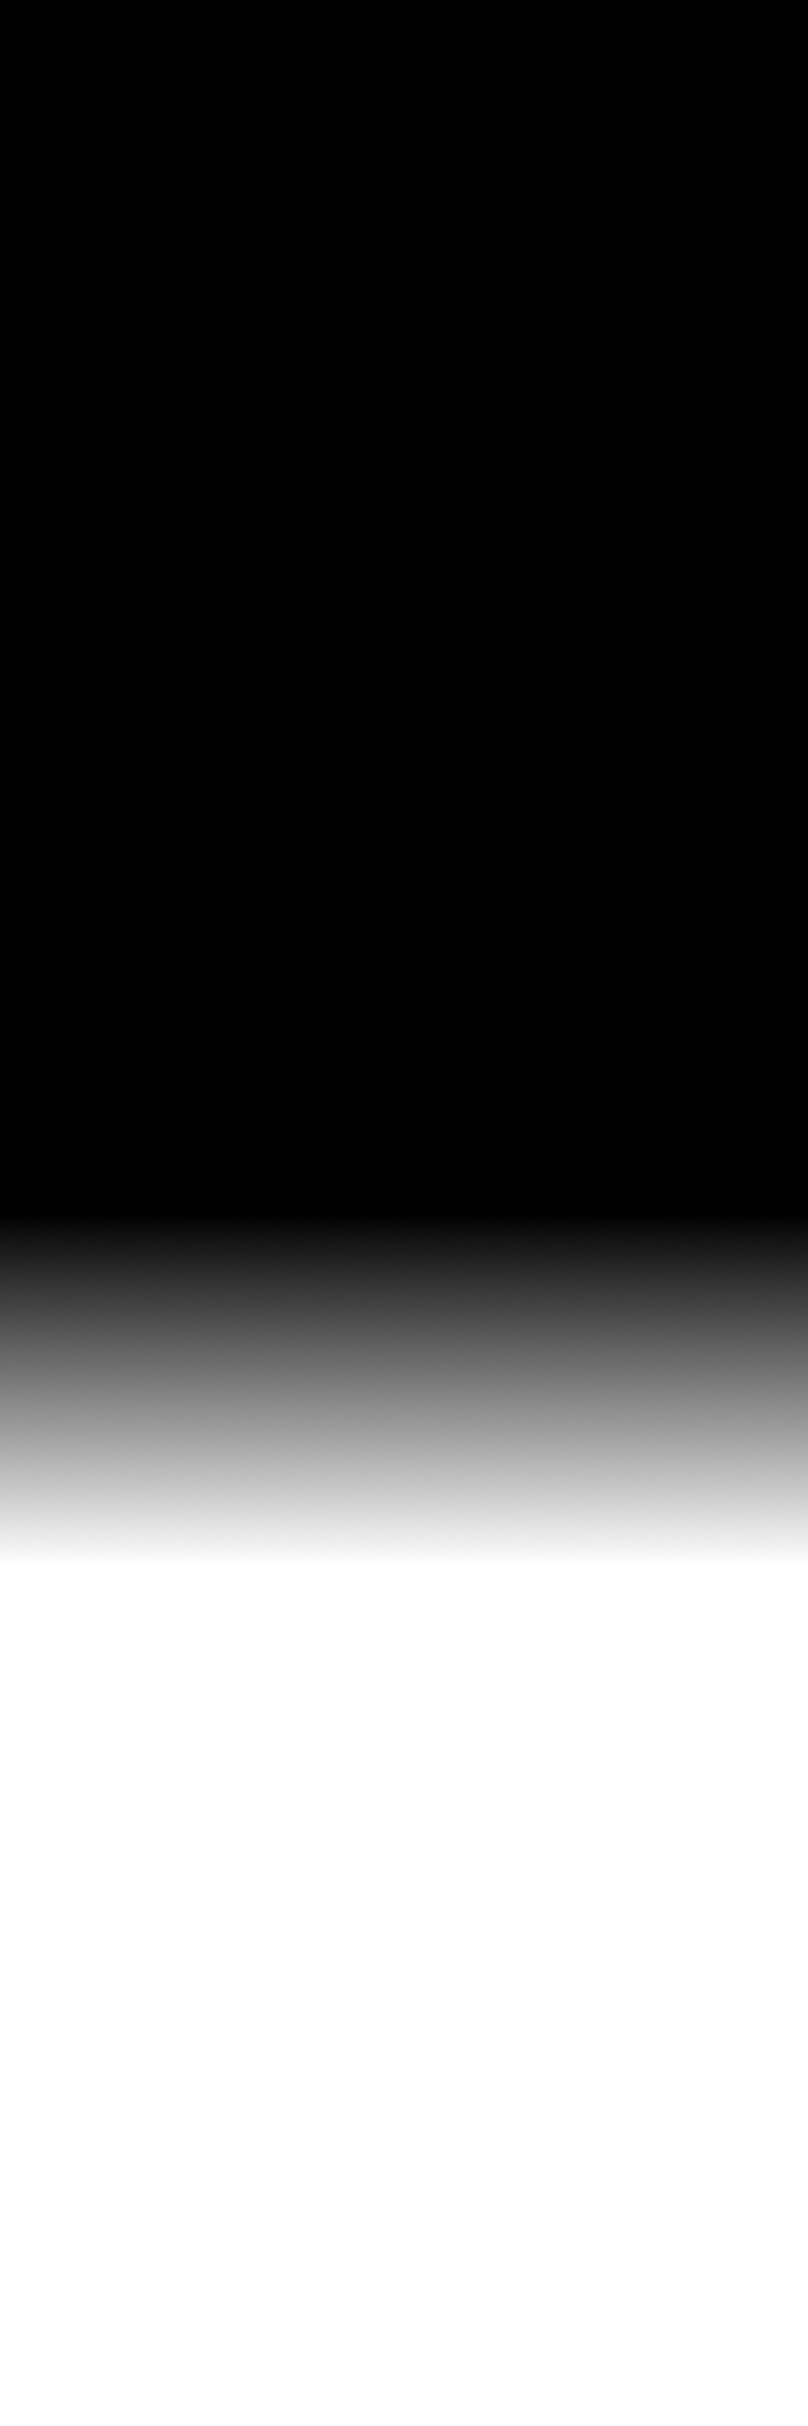
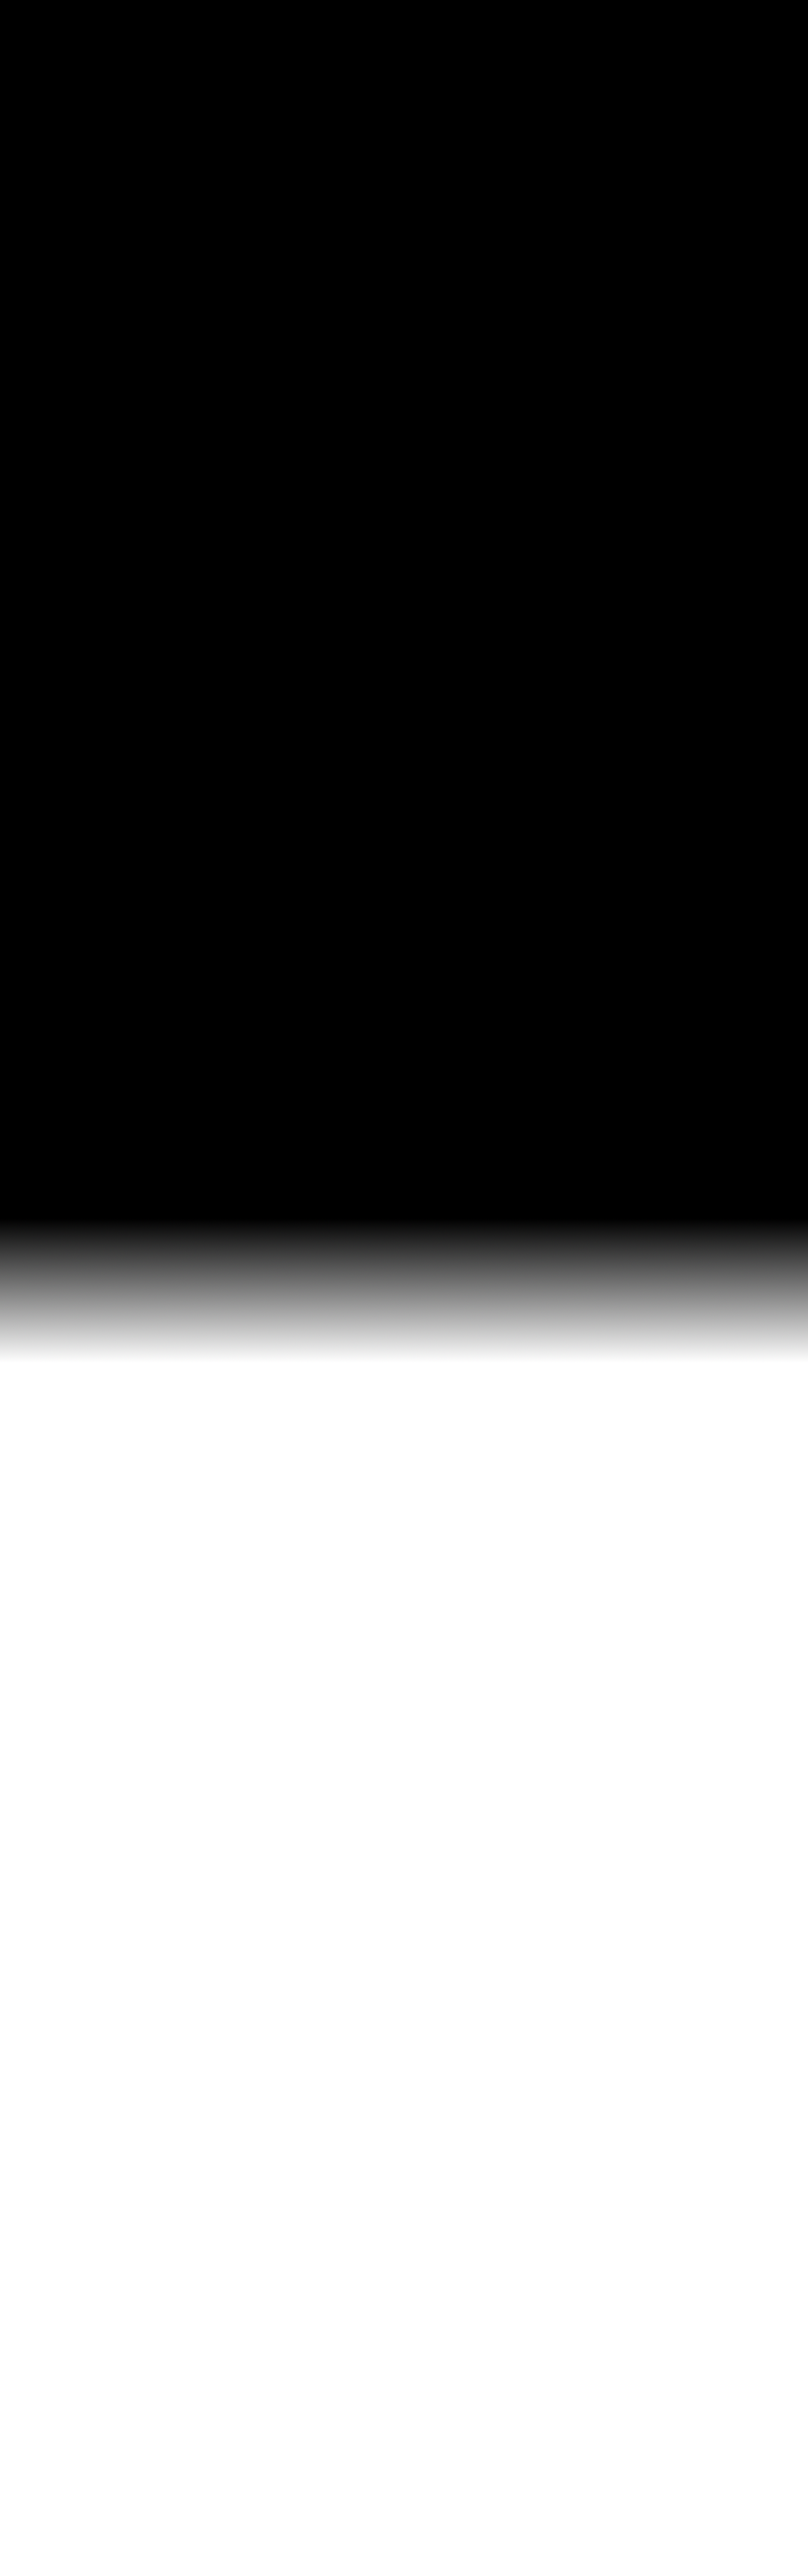
fix height of mask sprite and mask shift

Changed region(s): [[0.0, 0.4676, 1.0, 0.6546]]

diff --git a/src/scenes/level.ts b/src/scenes/level.ts
@@ -946,20 +946,10 @@ export class Level extends entity.CompositeEntity {
       crispr.proportion(life, this.options.maxLife, 0, 0, 5)
     );
     if (this.backgroundCellDangerMask) {
-      this.backgroundCellDangerMask.position.y = crispr.proportion(
-        life,
-        this.options.maxLife,
-        0,
-        100,
-        -1320
+      this.backgroundCellDangerMask.position.y = Math.max(
+        -1420,
+        crispr.proportion(life, this.options.maxLife, 1, 200, -1420)
       );
-      // this.backgroundCellDangerMask.height = crispr.proportion(
-      //   life,
-      //   this.options.maxLife,
-      //   -1,
-      //   3240,
-      //   5000
-      // )
     }
   }
 
